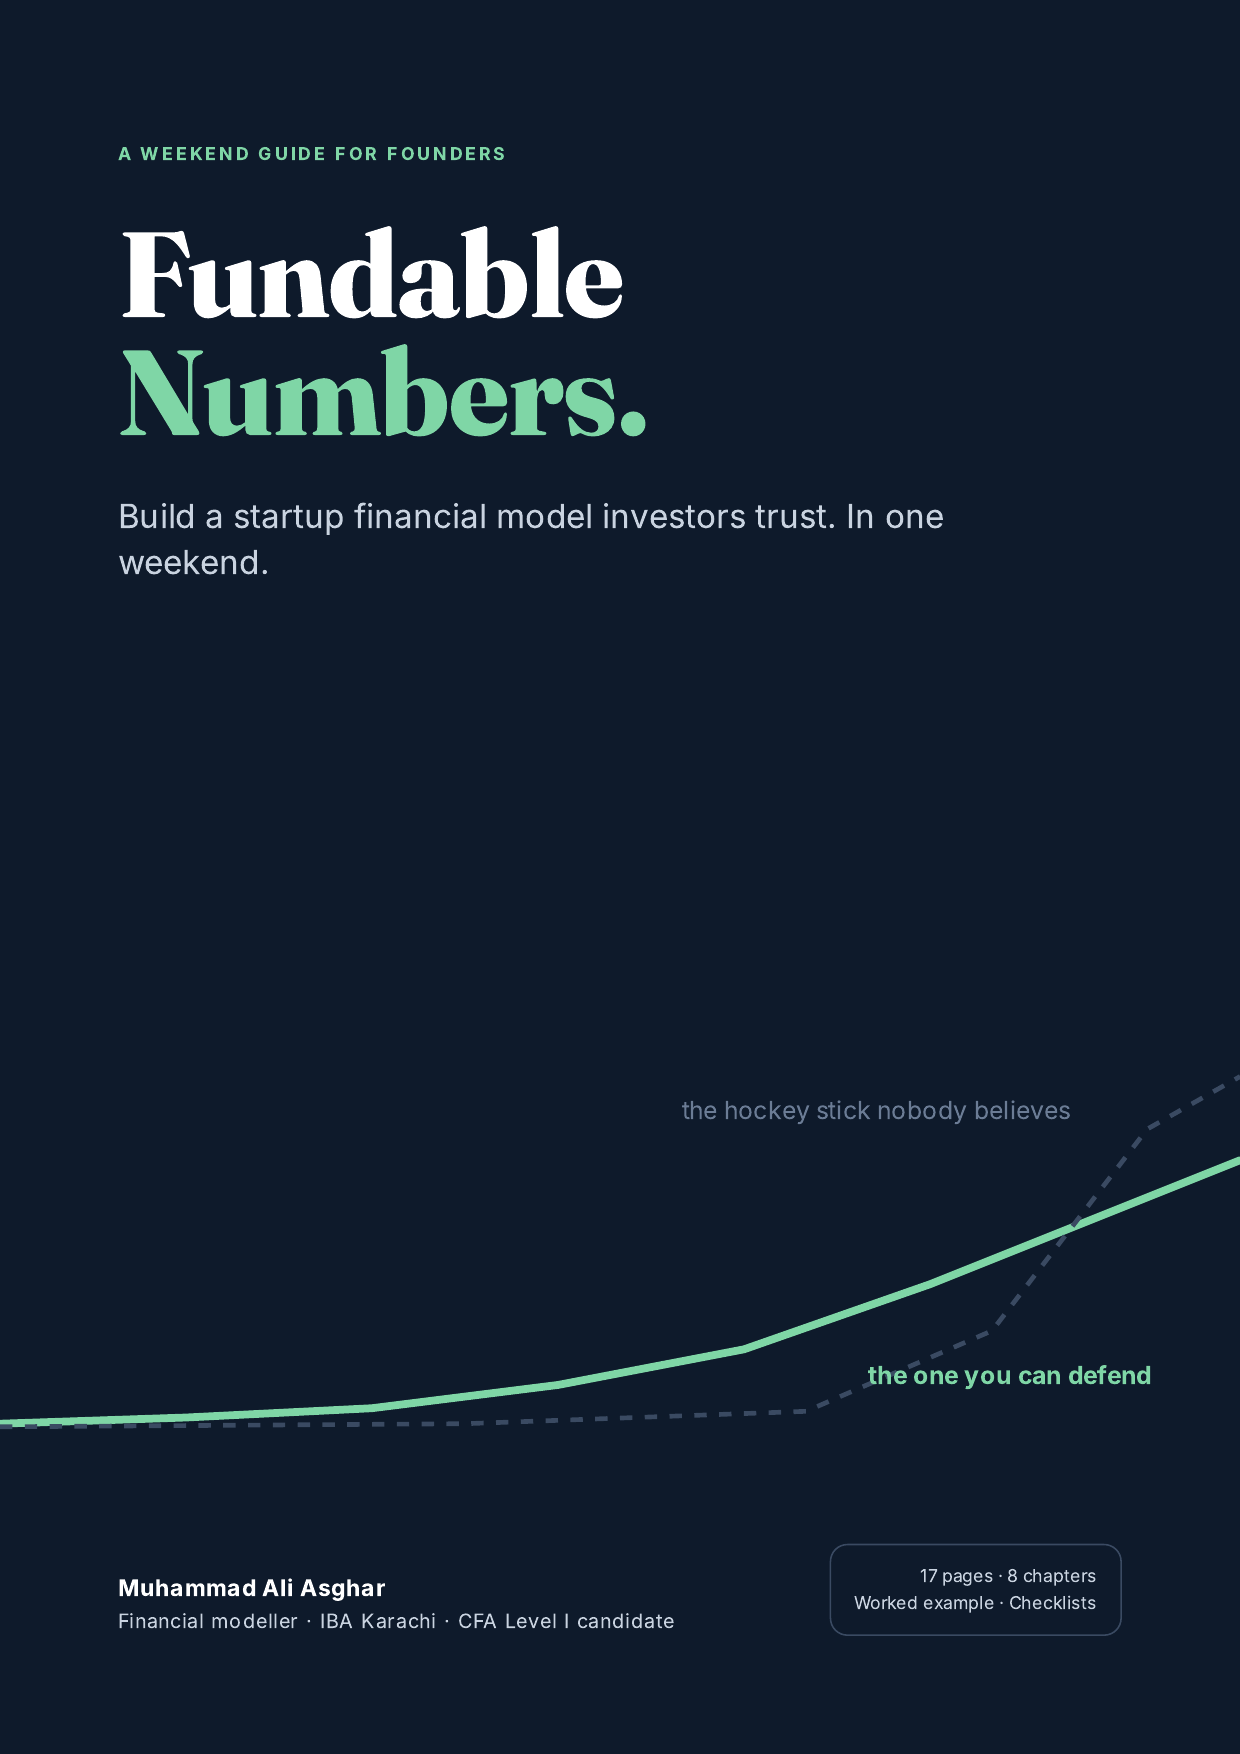
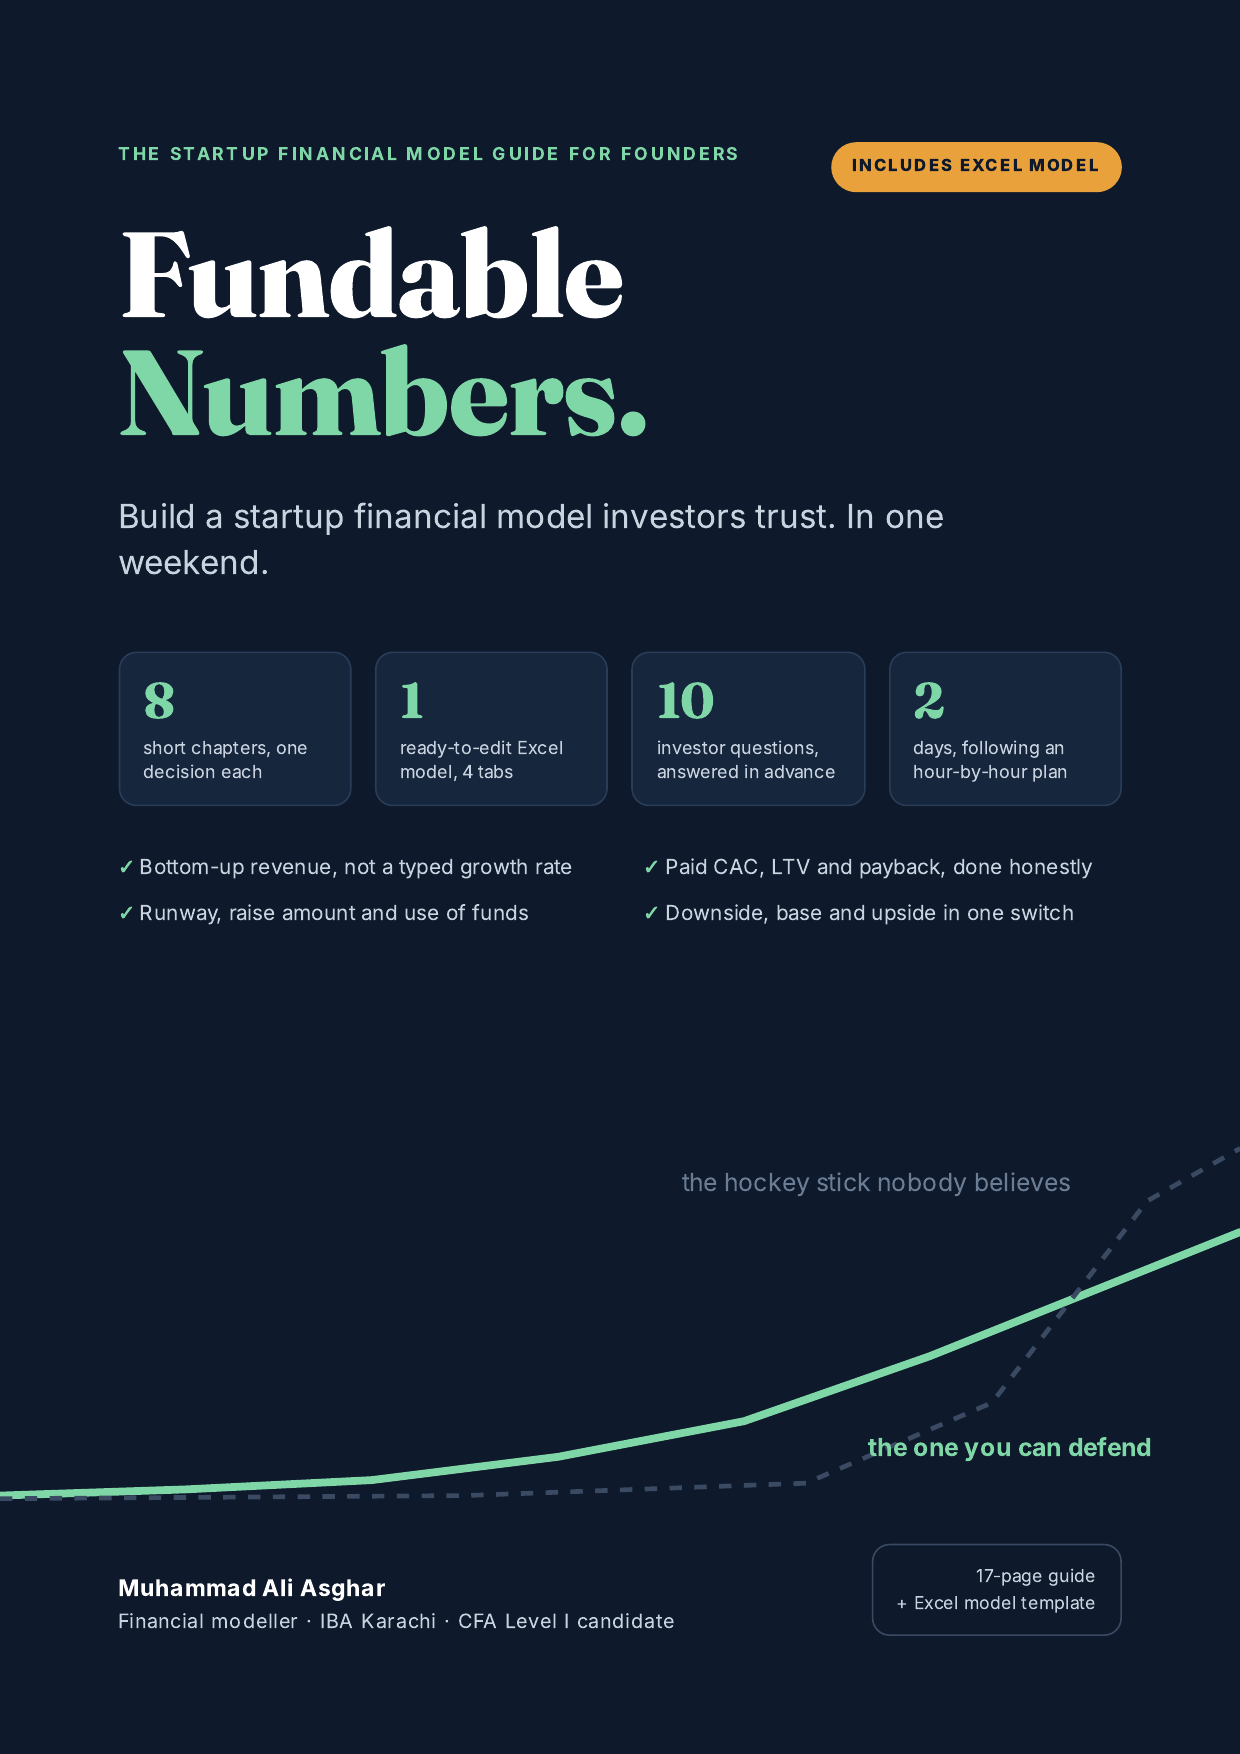
Update product image label to include Excel model
Claude-Session: https://claude.ai/code/session_018syB1xLMoLipxt8teGH1HC

diff --git a/fundable-numbers/shopify/img/mock.html b/fundable-numbers/shopify/img/mock.html
@@ -12,7 +12,7 @@ img{position:absolute;border-radius:10px;box-shadow:0 50px 100px rgba(0,0,0,.45)
  <img src="p-12.png" style="width:640px;left:830px;top:300px;transform:rotate(7deg);opacity:.9">
  <img src="p-07.png" style="width:640px;left:150px;top:300px;transform:rotate(-7deg);opacity:.9">
  <img src="p-01.png" style="width:760px;left:420px;top:180px">
- <div class="lbl"><b>17 pages</b> · 8 chapters · worked example · checklists · instant PDF</div>
+ <div class="lbl"><b>17-page guide + Excel model</b> · worked example · checklists · instant download</div>
 </section>
 <section class="s b" id="m2">
  <div class="h">What's inside</div>
